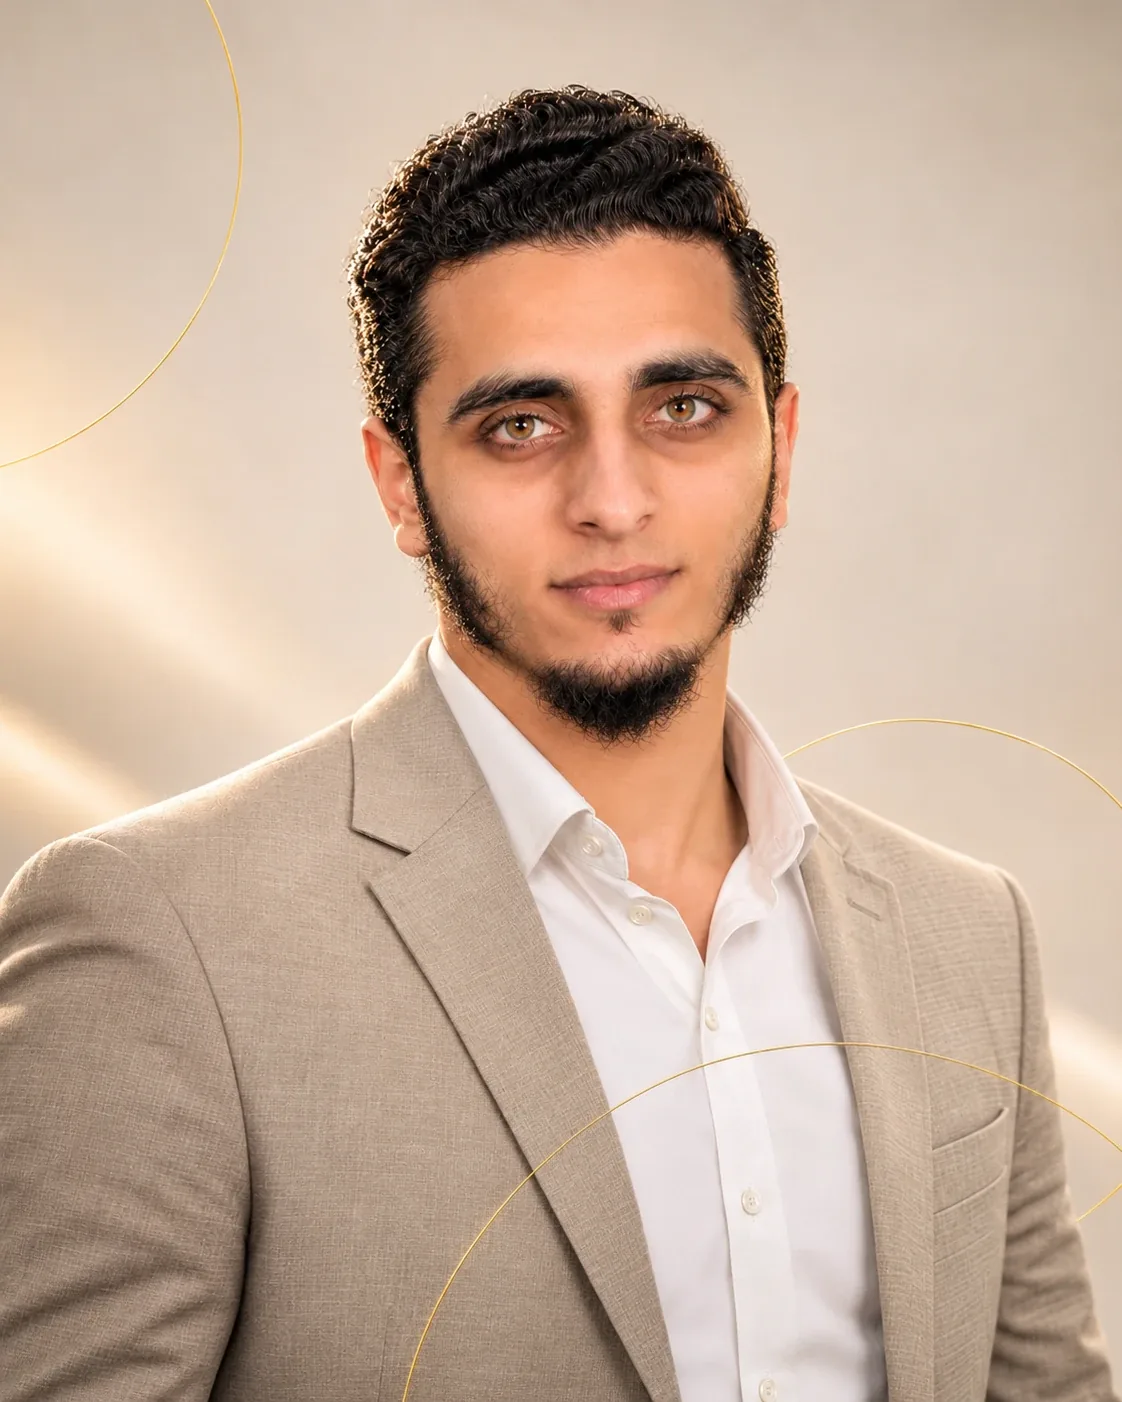
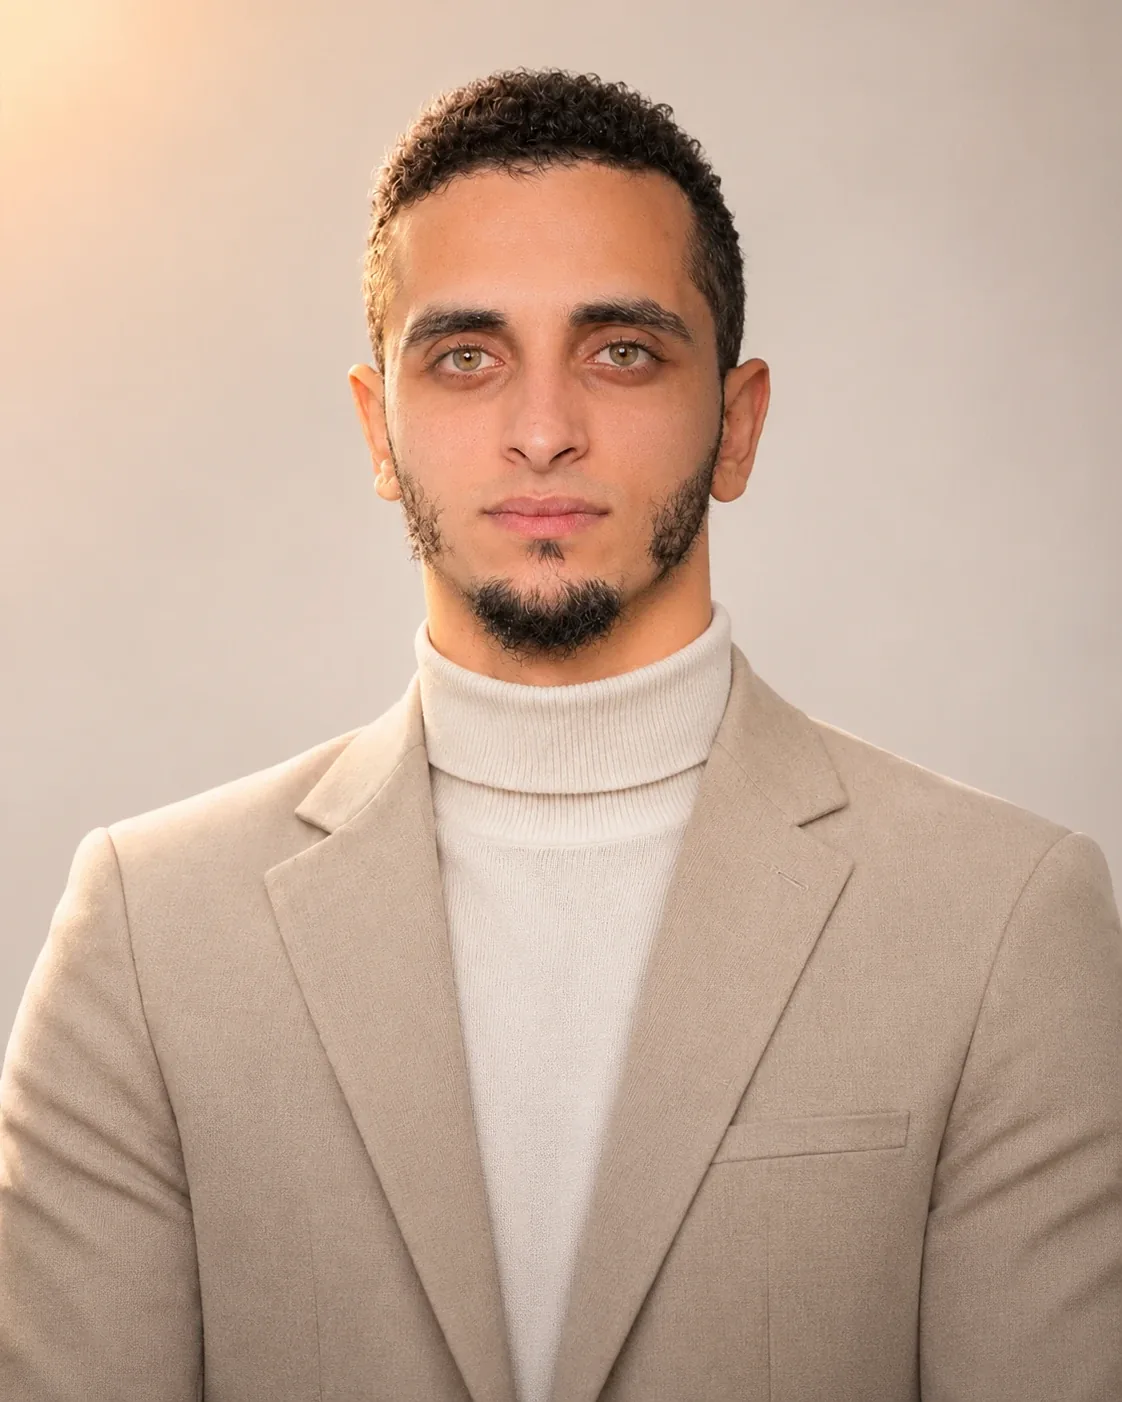
Swap portraits: lit photo with gold lines on the homepage, plain one on the contact page
Claude-Session: https://claude.ai/code/session_01XFthUk7WGd47y8wan7ditS

diff --git a/index.html b/index.html
@@ -39,7 +39,7 @@
   <link rel="stylesheet" href="https://fonts.googleapis.com/css2?family=Manrope:wght@400;500;600;700;800&display=swap">
   <link rel="stylesheet" href="assets/css/site.css?v=42">
   <link rel="stylesheet" href="assets/css/home.css?v=42">
-  <script type="application/ld+json">{"@context": "https://schema.org", "@graph": [{"@type": "WebSite", "@id": "https://thaerdesigner.com/#website", "url": "https://thaerdesigner.com/", "name": "Thaer Media", "alternateName": ["ثائر القريناوي", "Thaer AlQrenawi"], "inLanguage": ["ar", "en"], "publisher": {"@id": "https://thaerdesigner.com/#agency"}}, {"@type": "ProfessionalService", "name": "Thaer Media", "alternateName": "ثائر القريناوي", "url": "https://thaerdesigner.com/", "image": "https://thaerdesigner.com/assets/previews/home-preview.png?v=2", "logo": "https://thaerdesigner.com/assets/icon/icon-512.png", "email": "thaeralqrenawi@gmail.com", "telephone": "+970599351383", "description": "تصميم السوشيال ميديا، والهوية البصرية، وإدارة الحملات الإعلانية، وتصاميم المطبوعات، وصناعة المحتوى.", "sameAs": ["https://www.instagram.com/thaerdesigner/", "https://www.facebook.com/thaerdesigner12", "https://www.linkedin.com/in/thaerdesigner/", "https://www.behance.net/gallery/215783633/My-Portfolio-2022-2024", "https://x.com/thaerdesigner", "https://www.threads.net/@thaerdesigner", "https://www.tiktok.com/@thaerdesigner"], "@id": "https://thaerdesigner.com/#agency", "founder": {"@id": "https://thaerdesigner.com/#thaer"}, "areaServed": ["فلسطين", "الوطن العربي"], "priceRange": "$$", "hasOfferCatalog": {"@type": "OfferCatalog", "name": "خدمات Thaer Media", "itemListElement": [{"@type": "Offer", "itemOffered": {"@type": "Service", "name": "تصاميم السوشيال ميديا", "url": "https://thaerdesigner.com/work.social/"}}, {"@type": "Offer", "itemOffered": {"@type": "Service", "name": "تصاميم الهوية البصرية والشعارات", "url": "https://thaerdesigner.com/work.brand/"}}, {"@type": "Offer", "itemOffered": {"@type": "Service", "name": "تصاميم المطبوعات", "url": "https://thaerdesigner.com/work.print/"}}, {"@type": "Offer", "itemOffered": {"@type": "Service", "name": "صناعة المحتوى: موشن جرافيك ومونتاج فيديو", "url": "https://thaerdesigner.com/work.video/"}}, {"@type": "Offer", "itemOffered": {"@type": "Service", "name": "الحملات الإعلانية الممولة", "url": "https://thaerdesigner.com/work.ads/"}}]}}, {"@type": "Person", "@id": "https://thaerdesigner.com/#thaer", "name": "ثائر القريناوي", "alternateName": ["Thaer AlQrenawi", "Thaer Alqrenawi", "ثائر القريناوي المصمم", "Thaer Designer"], "jobTitle": "مصمم جرافيك ومختص تسويق عبر منصات التواصل الاجتماعي", "url": "https://thaerdesigner.com/", "image": "https://thaerdesigner.com/assets/images/home-person-dark.webp", "worksFor": {"@id": "https://thaerdesigner.com/#agency"}, "knowsAbout": ["تصاميم السوشيال ميديا", "تصاميم المطبوعات", "تصميم الهوية البصرية", "تصميم الشعارات", "موشن جرافيك", "مونتاج فيديو", "الحملات الإعلانية الممولة", "التسويق عبر منصات التواصل الاجتماعي"], "sameAs": ["https://www.instagram.com/thaerdesigner/", "https://www.facebook.com/thaerdesigner12", "https://www.linkedin.com/in/thaerdesigner/", "https://www.behance.net/gallery/215783633/My-Portfolio-2022-2024", "https://x.com/thaerdesigner", "https://www.threads.net/@thaerdesigner", "https://www.tiktok.com/@thaerdesigner"]}]}</script>
+  <script type="application/ld+json">{"@context": "https://schema.org", "@graph": [{"@type": "WebSite", "@id": "https://thaerdesigner.com/#website", "url": "https://thaerdesigner.com/", "name": "Thaer Media", "alternateName": ["ثائر القريناوي", "Thaer AlQrenawi"], "inLanguage": ["ar", "en"], "publisher": {"@id": "https://thaerdesigner.com/#agency"}}, {"@type": "ProfessionalService", "name": "Thaer Media", "alternateName": "ثائر القريناوي", "url": "https://thaerdesigner.com/", "image": "https://thaerdesigner.com/assets/previews/home-preview.png?v=2", "logo": "https://thaerdesigner.com/assets/icon/icon-512.png", "email": "thaeralqrenawi@gmail.com", "telephone": "+970599351383", "description": "تصميم السوشيال ميديا، والهوية البصرية، وإدارة الحملات الإعلانية، وتصاميم المطبوعات، وصناعة المحتوى.", "sameAs": ["https://www.instagram.com/thaerdesigner/", "https://www.facebook.com/thaerdesigner12", "https://www.linkedin.com/in/thaerdesigner/", "https://www.behance.net/gallery/215783633/My-Portfolio-2022-2024", "https://x.com/thaerdesigner", "https://www.threads.net/@thaerdesigner", "https://www.tiktok.com/@thaerdesigner"], "@id": "https://thaerdesigner.com/#agency", "founder": {"@id": "https://thaerdesigner.com/#thaer"}, "areaServed": ["فلسطين", "الوطن العربي"], "priceRange": "$$", "hasOfferCatalog": {"@type": "OfferCatalog", "name": "خدمات Thaer Media", "itemListElement": [{"@type": "Offer", "itemOffered": {"@type": "Service", "name": "تصاميم السوشيال ميديا", "url": "https://thaerdesigner.com/work.social/"}}, {"@type": "Offer", "itemOffered": {"@type": "Service", "name": "تصاميم الهوية البصرية والشعارات", "url": "https://thaerdesigner.com/work.brand/"}}, {"@type": "Offer", "itemOffered": {"@type": "Service", "name": "تصاميم المطبوعات", "url": "https://thaerdesigner.com/work.print/"}}, {"@type": "Offer", "itemOffered": {"@type": "Service", "name": "صناعة المحتوى: موشن جرافيك ومونتاج فيديو", "url": "https://thaerdesigner.com/work.video/"}}, {"@type": "Offer", "itemOffered": {"@type": "Service", "name": "الحملات الإعلانية الممولة", "url": "https://thaerdesigner.com/work.ads/"}}]}}, {"@type": "Person", "@id": "https://thaerdesigner.com/#thaer", "name": "ثائر القريناوي", "alternateName": ["Thaer AlQrenawi", "Thaer Alqrenawi", "ثائر القريناوي المصمم", "Thaer Designer"], "jobTitle": "مصمم جرافيك ومختص تسويق عبر منصات التواصل الاجتماعي", "url": "https://thaerdesigner.com/", "image": "https://thaerdesigner.com/assets/images/home-person-dark.webp?v=2", "worksFor": {"@id": "https://thaerdesigner.com/#agency"}, "knowsAbout": ["تصاميم السوشيال ميديا", "تصاميم المطبوعات", "تصميم الهوية البصرية", "تصميم الشعارات", "موشن جرافيك", "مونتاج فيديو", "الحملات الإعلانية الممولة", "التسويق عبر منصات التواصل الاجتماعي"], "sameAs": ["https://www.instagram.com/thaerdesigner/", "https://www.facebook.com/thaerdesigner12", "https://www.linkedin.com/in/thaerdesigner/", "https://www.behance.net/gallery/215783633/My-Portfolio-2022-2024", "https://x.com/thaerdesigner", "https://www.threads.net/@thaerdesigner", "https://www.tiktok.com/@thaerdesigner"]}]}</script>
 </head>
 <body data-page="home"
       data-title-ar="ثائر القريناوي | مصمم جرافيك وتسويق عبر السوشيال ميديا — Thaer Media"
@@ -85,8 +85,8 @@
       <div class="hero-visual">
         <div class="portrait">
           <div class="portrait-inner">
-            <img class="img-dark" src="assets/images/home-person-dark.webp" srcset="assets/images/home-person-dark-sm.webp 560w, assets/images/home-person-dark.webp 1122w" sizes="(max-width:960px) 74vw, 420px" alt="ثائر القريناوي" data-alt-ar="ثائر القريناوي" data-alt-en="Thaer AlQrenawi" width="1122" height="1402" fetchpriority="high" decoding="async">
-            <img class="img-light" src="assets/images/home-person-light.webp" srcset="assets/images/home-person-light-sm.webp 560w, assets/images/home-person-light.webp 1122w" sizes="(max-width:960px) 74vw, 420px" alt="" width="1122" height="1402" decoding="async" aria-hidden="true">
+            <img class="img-dark" src="assets/images/home-person-dark.webp?v=2" srcset="assets/images/home-person-dark-sm.webp?v=2 560w, assets/images/home-person-dark.webp?v=2 1122w" sizes="(max-width:960px) 74vw, 420px" alt="ثائر القريناوي" data-alt-ar="ثائر القريناوي" data-alt-en="Thaer AlQrenawi" width="1122" height="1402" fetchpriority="high" decoding="async">
+            <img class="img-light" src="assets/images/home-person-light.webp?v=2" srcset="assets/images/home-person-light-sm.webp?v=2 560w, assets/images/home-person-light.webp?v=2 1122w" sizes="(max-width:960px) 74vw, 420px" alt="" width="1122" height="1402" decoding="async" aria-hidden="true">
           </div>
           <span class="eyebrow eyebrow--on-media portrait-badge badge-top" data-ar="أعمال مميزة ولافتة" data-en="Distinctive work">أعمال مميزة ولافتة</span>
           <span class="eyebrow eyebrow--on-media portrait-badge badge-bottom" data-ar="احترافية وسرعة في التنفيذ" data-en="Professional, fast delivery">احترافية وسرعة في التنفيذ</span>

diff --git a/contact/index.html b/contact/index.html
@@ -115,8 +115,8 @@
       <div class="contact-visual reveal">
         <div class="portrait">
           <div class="portrait-inner">
-            <img class="img-dark" src="../assets/images/contact-person-dark.webp" srcset="../assets/images/contact-person-dark-sm.webp 560w, ../assets/images/contact-person-dark.webp 1122w" sizes="(max-width:960px) 74vw, 420px" alt="ثائر القريناوي" data-alt-ar="ثائر القريناوي" data-alt-en="Thaer AlQrenawi" width="1122" height="1402" decoding="async">
-            <img class="img-light" src="../assets/images/contact-person-light.webp" srcset="../assets/images/contact-person-light-sm.webp 560w, ../assets/images/contact-person-light.webp 1122w" sizes="(max-width:960px) 74vw, 420px" alt="" width="1122" height="1402" decoding="async" aria-hidden="true">
+            <img class="img-dark" src="../assets/images/contact-person-dark.webp?v=2" srcset="../assets/images/contact-person-dark-sm.webp?v=2 560w, ../assets/images/contact-person-dark.webp?v=2 1122w" sizes="(max-width:960px) 74vw, 420px" alt="ثائر القريناوي" data-alt-ar="ثائر القريناوي" data-alt-en="Thaer AlQrenawi" width="1122" height="1402" decoding="async">
+            <img class="img-light" src="../assets/images/contact-person-light.webp?v=2" srcset="../assets/images/contact-person-light-sm.webp?v=2 560w, ../assets/images/contact-person-light.webp?v=2 1122w" sizes="(max-width:960px) 74vw, 420px" alt="" width="1122" height="1402" decoding="async" aria-hidden="true">
           </div>
           <span class="eyebrow eyebrow--on-media portrait-badge contact-badge" data-ar="تواصل مباشر حول مشروعك" data-en="Talk to us directly about your project">تواصل مباشر حول مشروعك</span>
         </div>
